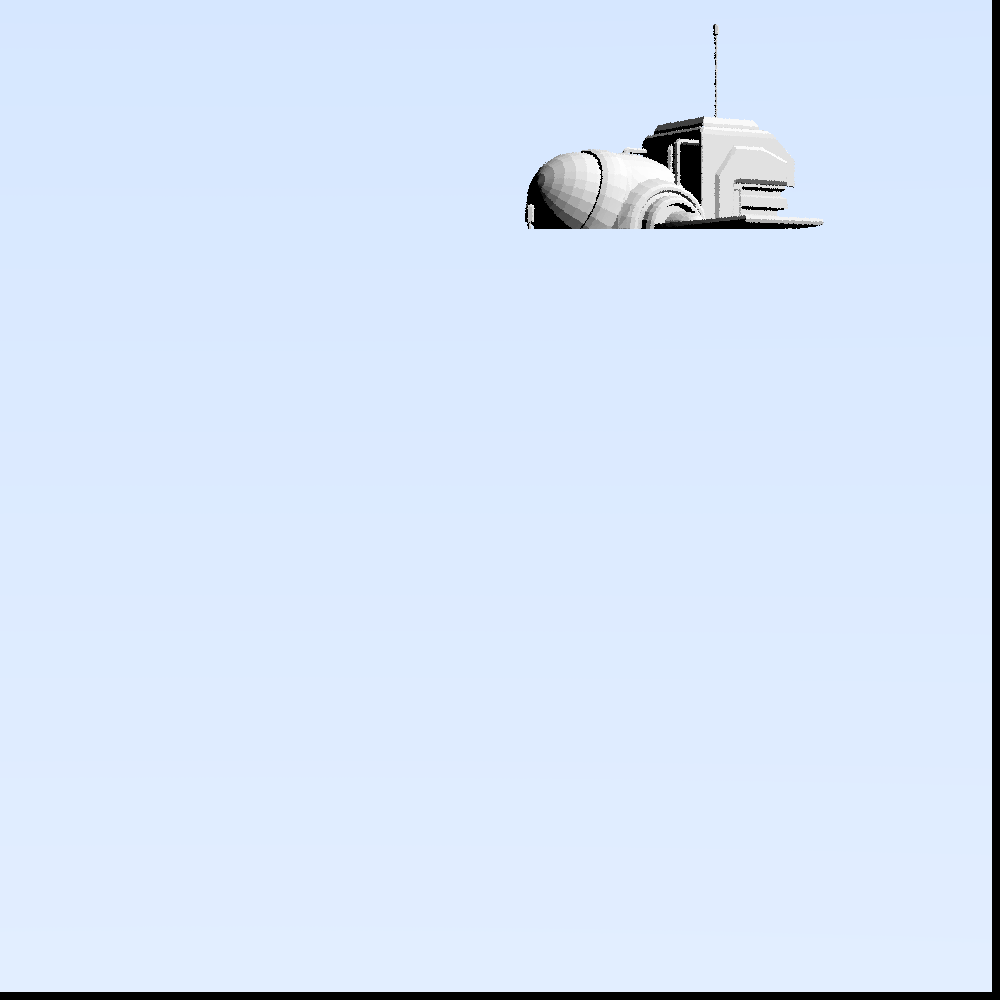
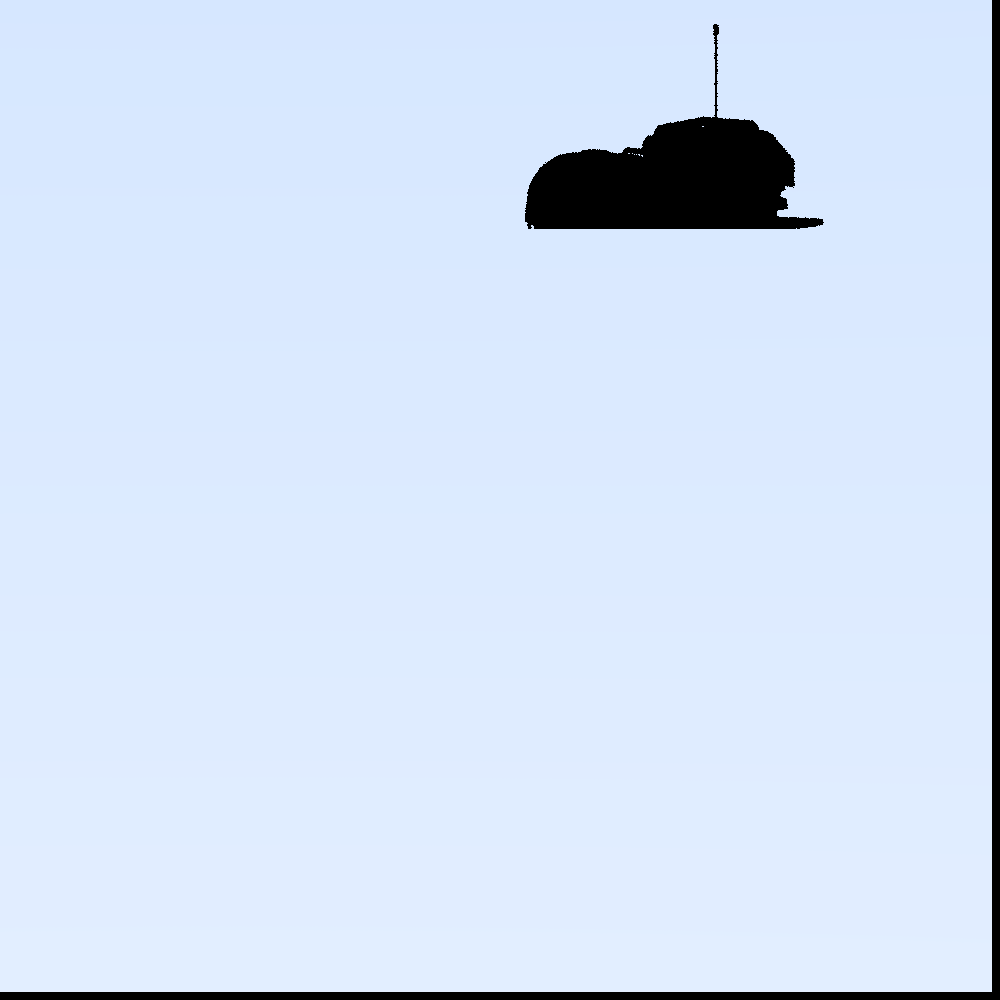
intersection functions

Changed region(s): [[0.527, 0.093, 0.837, 0.248]]

diff --git a/intersect/src/gpu/blas.rs b/intersect/src/gpu/blas.rs
@@ -1,97 +1,40 @@
 use std::rc::Rc;
 
-use cgmath::SquareMatrix;
-use vk_utils::{
-    buffer_resource::BufferResource, device_context::DeviceContext, BufferUsageFlags,
-    MemoryPropertyFlags,
-};
+use vk_utils::{buffer_resource::BufferResource, device_context::DeviceContext};
 
-use crate::{
-    bvh::Bvh,
-    types::{Mat4, AABB},
-};
+use crate::types::AABB;
 
-pub struct Blas {
-    aabb: AABB,
-    _vertex_buffer: u64,
-    _index_buffer: u64,
-    _triangle_buffer: BufferResource,
-    blas_buffer: BufferResource,
+use super::{procedural_blas::ProceduralGeometry, triangle_blas::TriangleGeometry};
+
+pub enum Geometry {
+    Triangle(TriangleGeometry),
+    Procedural(ProceduralGeometry),
 }
 
-impl Blas {
-    pub fn new(
+impl Geometry {
+    pub fn aabb(&self) -> &AABB {
+        match self {
+            Geometry::Triangle(triangle) => triangle.aabb(),
+            Geometry::Procedural(procedural) => procedural.aabb(),
+        }
+    }
+
+    pub fn address(&self) -> u64 {
+        match self {
+            Geometry::Triangle(triangle) => triangle.address(),
+            Geometry::Procedural(_) => 0,
+        }
+    }
+
+    pub fn new_triangles(
         device: Rc<DeviceContext>,
         vertex_buffer: &BufferResource,
         index_buffer: &BufferResource,
     ) -> Self {
-        let bvh = Bvh::new(&vertex_buffer.copy_data(), &index_buffer.copy_data());
-        let mut triangle_buffer = BufferResource::new(
-            device.clone(),
-            std::mem::size_of_val(bvh.triangles()),
-            MemoryPropertyFlags::HOST_VISIBLE,
-            BufferUsageFlags::STORAGE_BUFFER | BufferUsageFlags::SHADER_DEVICE_ADDRESS,
-        );
-        triangle_buffer.upload(bvh.triangles());
-
-        let mut blas_buffer = BufferResource::new(
-            device,
-            bvh.size() + 24,
-            MemoryPropertyFlags::HOST_VISIBLE,
-            BufferUsageFlags::STORAGE_BUFFER | BufferUsageFlags::SHADER_DEVICE_ADDRESS,
-        );
-        blas_buffer.upload(&[vertex_buffer.device_address()]);
-        blas_buffer.upload_at(8, &[index_buffer.device_address()]);
-        blas_buffer.upload_at(16, &[triangle_buffer.device_address()]);
-        blas_buffer.upload_at(24, bvh.nodes());
-
-        Self {
-            aabb: *bvh.aabb(),
-            _vertex_buffer: vertex_buffer.device_address(),
-            _index_buffer: index_buffer.device_address(),
-            _triangle_buffer: triangle_buffer,
-            blas_buffer,
-        }
+        Geometry::Triangle(TriangleGeometry::new(device, vertex_buffer, index_buffer))
     }
 
-    pub fn aabb(&self) -> &AABB {
-        &self.aabb
-    }
-
-    pub fn address(&self) -> u64 {
-        self.blas_buffer.device_address()
-    }
-}
-
-pub struct Instance {
-    blas: Rc<Blas>,
-    id: u32,
-    transform: Mat4,
-}
-
-impl Instance {
-    pub fn new(blas: Rc<Blas>, id: u32) -> Self {
-        Self {
-            blas,
-            id,
-            transform: Mat4::identity(),
-        }
-    }
-
-    pub fn with_transform(mut self, transform: Mat4) -> Self {
-        self.transform = transform;
-        self
-    }
-
-    pub fn transform(&self) -> &Mat4 {
-        &self.transform
-    }
-
-    pub fn blas(&self) -> &Blas {
-        &self.blas
-    }
-
-    pub fn id(&self) -> u32 {
-        self.id
+    pub fn new_procedural(aabb: AABB, intersection_function_offset: u32) -> Self {
+        Geometry::Procedural(ProceduralGeometry::new(aabb, intersection_function_offset))
     }
 }

diff --git a/intersect/src/gpu/triangle_blas.rs b/intersect/src/gpu/triangle_blas.rs
@@ -1,0 +1,60 @@
+use std::rc::Rc;
+
+use vk_utils::{
+    buffer_resource::BufferResource, device_context::DeviceContext, BufferUsageFlags,
+    MemoryPropertyFlags,
+};
+
+use crate::{bvh::Bvh, types::AABB};
+
+pub struct TriangleGeometry {
+    aabb: AABB,
+    _vertex_buffer: u64,
+    _index_buffer: u64,
+    _triangle_buffer: BufferResource,
+    blas_buffer: BufferResource,
+}
+
+impl TriangleGeometry {
+    pub fn new(
+        device: Rc<DeviceContext>,
+        vertex_buffer: &BufferResource,
+        index_buffer: &BufferResource,
+    ) -> Self {
+        let bvh = Bvh::new(&vertex_buffer.copy_data(), &index_buffer.copy_data());
+        let mut triangle_buffer = BufferResource::new(
+            device.clone(),
+            std::mem::size_of_val(bvh.triangles()),
+            MemoryPropertyFlags::HOST_VISIBLE,
+            BufferUsageFlags::STORAGE_BUFFER | BufferUsageFlags::SHADER_DEVICE_ADDRESS,
+        );
+        triangle_buffer.upload(bvh.triangles());
+
+        let mut blas_buffer = BufferResource::new(
+            device,
+            bvh.size() + 24,
+            MemoryPropertyFlags::HOST_VISIBLE,
+            BufferUsageFlags::STORAGE_BUFFER | BufferUsageFlags::SHADER_DEVICE_ADDRESS,
+        );
+        blas_buffer.upload(&[vertex_buffer.device_address()]);
+        blas_buffer.upload_at(8, &[index_buffer.device_address()]);
+        blas_buffer.upload_at(16, &[triangle_buffer.device_address()]);
+        blas_buffer.upload_at(24, bvh.nodes());
+
+        Self {
+            aabb: *bvh.aabb(),
+            _vertex_buffer: vertex_buffer.device_address(),
+            _index_buffer: index_buffer.device_address(),
+            _triangle_buffer: triangle_buffer,
+            blas_buffer,
+        }
+    }
+
+    pub fn aabb(&self) -> &AABB {
+        &self.aabb
+    }
+
+    pub fn address(&self) -> u64 {
+        self.blas_buffer.device_address()
+    }
+}

diff --git a/intersect/src/gpu/gpu_acceleration_structure.rs b/intersect/src/gpu/gpu_acceleration_structure.rs
@@ -10,7 +10,7 @@ use crate::{
     types::{Mat4, AABB},
 };
 
-use super::blas::Instance;
+use super::{blas::Geometry, instance::Instance};
 
 pub struct GpuTlas {
     pub tlas_buffer: BufferResource,
@@ -29,14 +29,23 @@ impl GpuTlas {
         let mut nodes = Vec::new();
         let mut boxes = Vec::new();
         for instance in proxies {
-            nodes.push(Node::default());
-            boxes.push(instance.blas().aabb().transformed(instance.transform()))
+            match instance.blas() {
+                Geometry::Triangle(_) => {
+                    nodes.push(Node::default());
+                }
+                Geometry::Procedural(procedural) => {
+                    nodes.push(Node::default().with_intersection_function_offset(
+                        procedural.intersection_function_offset(),
+                    ));
+                }
+            }
+            boxes.push(instance.aabb().transformed(instance.transform()))
         }
 
         let mut instances: Vec<GpuInstance> = proxies
             .iter()
             .map(|proxy| GpuInstance {
-                blas: proxy.blas().address(),
+                blas: proxy.address(),
                 instance_id: proxy.id(),
                 transform: *proxy.transform(),
             })
@@ -51,7 +60,7 @@ impl GpuTlas {
 
         let mut instance_buffer = BufferResource::new(
             device.clone(),
-            std::mem::size_of_val(proxies),
+            std::mem::size_of_val(&instances),
             MemoryPropertyFlags::HOST_VISIBLE,
             BufferUsageFlags::STORAGE_BUFFER,
         );
@@ -59,7 +68,7 @@ impl GpuTlas {
 
         let mut tlas_buffer = BufferResource::new(
             device,
-            size_of::<Node>() * nodes.len(),
+            std::mem::size_of_val(&nodes),
             MemoryPropertyFlags::HOST_VISIBLE,
             BufferUsageFlags::STORAGE_BUFFER,
         );

diff --git a/intersect/examples/gpu.rs b/intersect/examples/gpu.rs
@@ -2,24 +2,23 @@ use std::{rc::Rc, time::Instant};
 
 use intersect::{
     gpu::{
-        blas::{Blas, Instance},
+        blas::Geometry,
         gpu::Gpu,
         gpu_acceleration_structure::GpuTlas,
+        instance::Instance,
         ray_tracing_pipeline::RayTracingPipeline,
         ray_tracing_pipeline_descriptor::{
             PayloadDescriptor, RayTracingPipelineDescriptor, ShaderSource,
         },
+        triangle_blas::TriangleGeometry,
     },
     read_triangle_file,
     types::{DataType, HdrColor, Mat4, Ray, Vec3},
     write_hdr_buffer_to_file, write_ray_buffer_to_file,
 };
 use vk_utils::{
-    buffer_resource::BufferResource,
-    command_buffer::CommandBuffer,
-    image2d_resource::Image2DResource,
-    queue::{self, CommandQueue},
-    BufferUsageFlags, Format, ImageUsageFlags, MemoryPropertyFlags, QueueFlags,
+    buffer_resource::BufferResource, command_buffer::CommandBuffer,
+    image2d_resource::Image2DResource, queue::CommandQueue, QueueFlags,
 };
 
 fn load_shader(name: &str) -> String {
@@ -45,7 +44,7 @@ fn main() {
     let vertex_buffer =
         BufferResource::new_host_visible_with_data(device_context.clone(), &vertices);
     let index_buffer = BufferResource::new_host_visible_with_data(device_context.clone(), &indices);
-    let blas = Rc::new(Blas::new(
+    let blas = Rc::new(Geometry::new_triangles(
         device_context.clone(),
         &vertex_buffer,
         &index_buffer,

diff --git a/intersect/src/gpu/instance.rs b/intersect/src/gpu/instance.rs
@@ -1,0 +1,54 @@
+use std::rc::Rc;
+
+use cgmath::SquareMatrix;
+
+use crate::types::{Mat4, AABB};
+
+use super::blas::Geometry;
+
+pub struct Instance {
+    blas: Rc<Geometry>,
+    id: u32,
+    transform: Mat4,
+}
+
+impl Instance {
+    pub fn new(blas: Rc<Geometry>, id: u32) -> Self {
+        Self {
+            blas,
+            id,
+            transform: Mat4::identity(),
+        }
+    }
+
+    pub fn with_transform(mut self, transform: Mat4) -> Self {
+        self.transform = transform;
+        self
+    }
+
+    pub fn transform(&self) -> &Mat4 {
+        &self.transform
+    }
+
+    pub fn blas(&self) -> &Geometry {
+        &self.blas
+    }
+
+    pub fn id(&self) -> u32 {
+        self.id
+    }
+
+    pub fn aabb(&self) -> &AABB {
+        match self.blas.as_ref() {
+            Geometry::Triangle(triangle) => triangle.aabb(),
+            Geometry::Procedural(procedural) => procedural.aabb(),
+        }
+    }
+
+    pub fn address(&self) -> u64 {
+        match self.blas.as_ref() {
+            Geometry::Triangle(triangle) => triangle.address(),
+            Geometry::Procedural(_) => 0,
+        }
+    }
+}

diff --git a/intersect/src/bvh.rs b/intersect/src/bvh.rs
@@ -9,6 +9,15 @@ pub struct Node {
     pub aabb: AABB,
     pub first_primitive: u32,
     pub primitive_count: u32,
+    pub intersection_function_offset: u32,
+    pub padding: [u32; 3],
+}
+
+impl Node {
+    pub fn with_intersection_function_offset(mut self, offset: u32) -> Self {
+        self.intersection_function_offset = offset;
+        self
+    }
 }
 
 impl Default for Node {
@@ -20,6 +29,8 @@ impl Default for Node {
                 min: Vec3::new(f32::MAX, f32::MAX, f32::MAX),
                 max: Vec3::new(f32::MIN, f32::MIN, f32::MIN),
             },
+            intersection_function_offset: 0,
+            padding: [0; 3],
         }
     }
 }

diff --git a/intersect/src/gpu/procedural_blas.rs b/intersect/src/gpu/procedural_blas.rs
@@ -1,0 +1,23 @@
+use crate::types::AABB;
+
+pub struct ProceduralGeometry {
+    aabb: AABB,
+    intersection_function_offset: u32,
+}
+
+impl ProceduralGeometry {
+    pub fn new(aabb: AABB, intersection_function_offset: u32) -> Self {
+        Self {
+            aabb,
+            intersection_function_offset,
+        }
+    }
+
+    pub fn aabb(&self) -> &AABB {
+        &self.aabb
+    }
+
+    pub fn intersection_function_offset(&self) -> u32 {
+        self.intersection_function_offset
+    }
+}

diff --git a/intersect/src/gpu/mod.rs b/intersect/src/gpu/mod.rs
@@ -6,5 +6,8 @@ pub mod gpu_ray_accumulator;
 pub mod gpu_ray_generator;
 pub mod gpu_ray_intersector;
 pub mod gpu_ray_shader;
+pub mod instance;
+pub mod procedural_blas;
 pub mod ray_tracing_pipeline;
 pub mod ray_tracing_pipeline_descriptor;
+pub mod triangle_blas;
